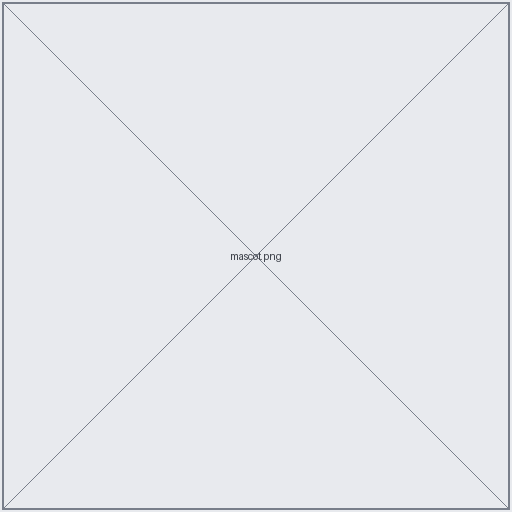
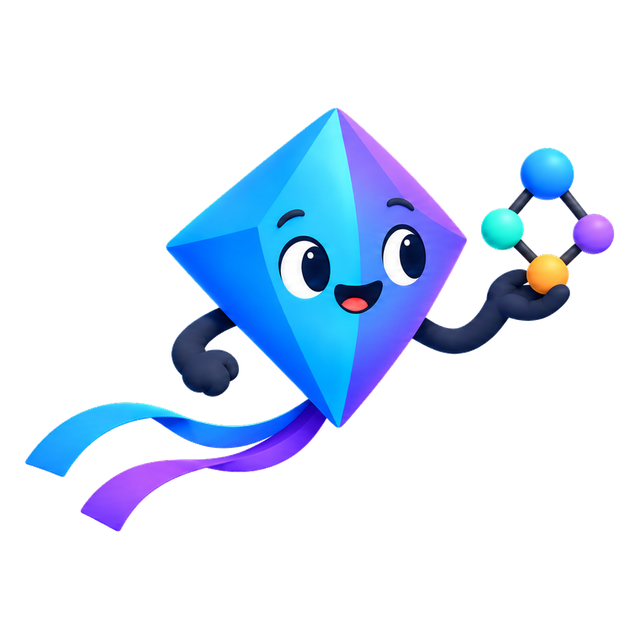
Replace the site's placeholder images with real board screenshots and the mascot

Changed region(s): [[0.0, 0.0, 1.0, 1.0]]

diff --git a/website/IMAGES.md b/website/IMAGES.md
@@ -10,14 +10,23 @@ then open <http://localhost:8394>. Export at 2× for retina; PNG.
 
 | File | What it should show |
 |---|---|
-| `board-overview.png` | The whole demo-app graph on the canvas, zoomed so node labels are readable. Used on the landing page and in the board guide. |
-| `board-modules.png` | The same graph with module containers on (`m`), so each module reads as its own labeled, tinted backdrop. Used in the multi-module guide. |
+| `board-overview.png` | The whole demo-app graph on the canvas, every module in its own container, zoomed so node labels are readable. Used on the landing page and in the board guide. |
+| `board-modules.png` | Closer in on `:feature:orders:impl`, `:feature:profile:impl` and `:core:analytics`: each module its own labeled, tinted box, wires crossing between them. Used in the multi-module guide. |
+| `board-node-panel.png` | `DefaultFirstPresenter` selected: its neighbours stay lit and the side panel shows provided from / injected into / depends on. Used in the board guide. |
 | `board-decision-card.png` | A blocked build's decision card, offering the `@Bind` between two implementations. Used in the board guide. |
 
+The default layout stacks modules vertically, too tall to read at one zoom. For
+the overview and modules shots, drag the module containers side by side first:
+`:app` and `:core:network` on top, the features and `:core:analytics` below. To get
+the decision card, comment out the `@Bind` in `:core:analytics`'s `GraphRules.kt`,
+build, take the shot, then restore the line.
+
 ## Branding
+
+All three are cut from the README hero, `docs/hero_logo.png`.
 
 | File | Notes |
 |---|---|
 | `mascot.png` | The mascot. Used as the nav logo (renders ~24px) and the hero image (~320px). Transparent background; works on light and dark. |
-| `favicon.png` | 32×32 or 48×48. |
-| `social.png` | 1200×630 Open Graph card — mascot plus the tagline. Linked absolutely as `https://kitedi.com/img/social.png` in the site config. |
+| `favicon.png` | 48×48 — the kite's diamond and face only; the full mascot is a smudge at tab size. |
+| `social.png` | 1200×630 Open Graph card — the README hero (wordmark, tagline, mascot) centred on its backdrop. Linked absolutely as `https://kitedi.com/img/social.png` in the site config. |

diff --git a/website/guide/board.md b/website/guide/board.md
@@ -20,6 +20,8 @@ with the file and line of each. The graph is laid out per module: each module is
 labeled container, a translucent backdrop around its nodes in its own accent
 colour. Toggle containers with the **Modules** button or `m`.
 
+![The side panel for a selected node: where it is provided from, what it is injected into, what it depends on](/img/board-node-panel.png)
+
 - **Graph arguments** appear as external nodes (`apiKey: String`) — the leaves
   your `Graph.start` fills.
 - **ViewModels** appear as entry points, since androidx owns their instances.
